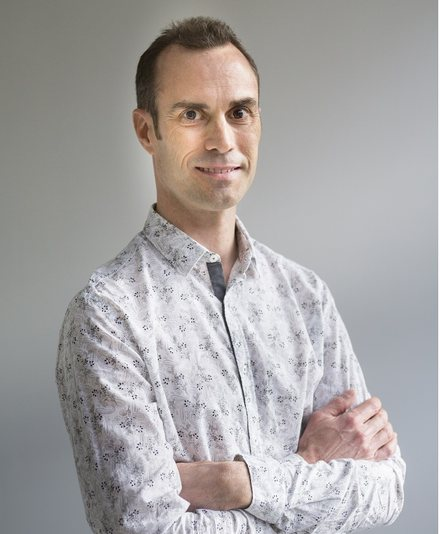
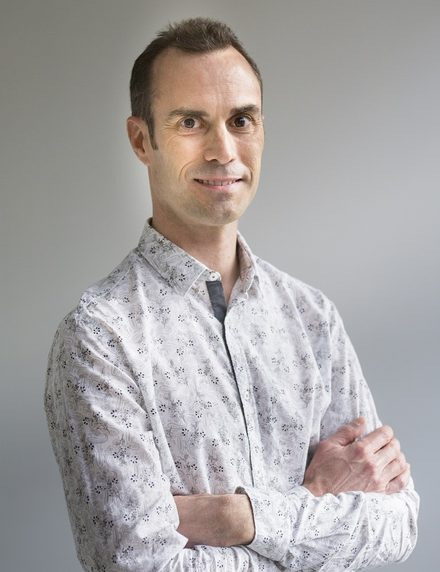
update images, modify date fields, and enhance accessibility styles

diff --git a/index.html b/index.html
@@ -63,7 +63,7 @@
         "inLanguage": "fr",
         "isPartOf": { "@id": "https://arnaudlegout.fr/#website" },
         "dateCreated": "2026-10-20T17:35:52+02:00",
-        "dateModified": "2026-10-20T18:44:53+02:00",
+        "dateModified": "2026-10-21T10:26:32+02:00",
         "mainEntity": { "@id": "https://arnaudlegout.fr/#arnaud-legout" }
       },
       {
@@ -140,8 +140,10 @@
             <p>Je suis directeur de recherche à Inria, à Sophia Antipolis, et habilité à diriger des recherches. Depuis plus de vingt ans, j'analyse des données à très grande échelle pour comprendre l'Internet, les réseaux sociaux et la protection de la vie privée.</p>
             <p>En parallèle, je forme des équipes à Python et à la data science depuis 2011, et j'accompagne des entreprises comme consultant indépendant.</p>
           </div>
-          <img src="assets/images/photo-arnaud-legout.jpg" alt="Portrait d'Arnaud Legout" class="hero__photo"
-            width="220" height="286">
+          <img src="assets/images/photo-arnaud-legout.jpg"
+            srcset="assets/images/photo-arnaud-legout-240.jpg 240w, assets/images/photo-arnaud-legout.jpg 440w"
+            sizes="(min-width: 768px) 220px, 120px"
+            alt="Portrait d'Arnaud Legout" class="hero__photo" width="220" height="286">
         </div>
       </div>
     </section>
@@ -241,7 +243,7 @@
           <li>l'analyse de la totalité de la chaîne Bitcoin, seize milliards de liens, pour retrouver les fonds définitivement perdus&nbsp;;</li>
           <li>des années de mesure des échanges BitTorrent, qui ont montré que l'anonymat promis par certains outils n'existait pas.</li>
         </ul>
-        <p>Plusieurs de ces travaux ont été repris par la presse internationale, dont le <a href="http://bits.blogs.nytimes.com/2011/11/29/skype-can-expose-your-location-researchers-say/" target="_blank" rel="noopener">New York Times</a>, le <a href="https://www.washingtonpost.com/news/the-intersect/wp/2016/06/16/six-in-10-of-you-will-share-this-link-without-reading-it-according-to-a-new-and-depressing-study/" target="_blank" rel="noopener">Washington Post</a>, <a href="http://fortune.com/2016/06/19/6-out-of-10-twitter-link-clicks/" target="_blank" rel="noopener">Fortune</a> et <a href="http://www.lemonde.fr/technologies/article/2010/05/08/l-anonymat-du-reseau-bittorrent-mis-en-cause_1348214_651865.html" target="_blank" rel="noopener">Le Monde</a>. Mes travaux récents portent aussi sur l'effet des suggestions de type IA sur la justesse des décisions, sur l'identification d'adresses Bitcoin illicites dans les forums clandestins et sur les discours de santé sur les réseaux sociaux.</p>
+        <p>Plusieurs de ces travaux ont été repris par la presse internationale, dont le <a href="https://archive.nytimes.com/bits.blogs.nytimes.com/2011/11/29/skype-can-expose-your-location-researchers-say/" target="_blank" rel="noopener">New York Times</a>, le <a href="https://www.washingtonpost.com/news/the-intersect/wp/2016/06/16/six-in-10-of-you-will-share-this-link-without-reading-it-according-to-a-new-and-depressing-study/" target="_blank" rel="noopener">Washington Post</a>, <a href="https://fortune.com/2016/06/19/6-out-of-10-twitter-link-clicks/" target="_blank" rel="noopener">Fortune</a> et <a href="https://www.lemonde.fr/technologies/article/2010/05/08/l-anonymat-du-reseau-bittorrent-mis-en-cause_1348214_651865.html" target="_blank" rel="noopener">Le Monde</a>. Mes travaux récents portent aussi sur l'effet des suggestions de type IA sur la justesse des décisions, sur l'identification d'adresses Bitcoin illicites dans les forums clandestins et sur les discours de santé sur les réseaux sociaux.</p>
         <p>J'ai encadré six thèses jusqu'à la soutenance, siégé aux comités éditoriaux de <em>Proceedings on Privacy Enhancing Technologies</em> (2021–2023) et d'<em>Elsevier Computer Networks</em> (2012–2016), et aux comités de programme de conférences comme ACM SIGCOMM, ACM IMC, ACM CoNEXT et PETS.</p>
         <p>La liste complète de mes publications se trouve sur ma <a href="https://www-sop.inria.fr/members/Arnaud.Legout/" target="_blank" rel="noopener">page de recherche Inria</a>, qui présente aussi mes projets et mes interventions, ainsi que sur <a href="https://scholar.google.com/citations?user=uGy5lroAAAAJ" target="_blank" rel="noopener">Google Scholar</a> et sur mon <a href="https://cv.hal.science/arnaudlegout" target="_blank" rel="noopener">CV HAL</a>.</p>
       </div>

diff --git a/style.css b/style.css
@@ -599,3 +599,22 @@ strong { font-weight: 600; }
 }
 .not-found h1 { margin-bottom: 1rem; }
 .not-found p  { color: var(--color-text-muted); margin-bottom: 2rem; }
+
+/* Boutons de la 404 centrés sous le titre et le texte, eux-mêmes centrés */
+.not-found .hero__cta { justify-content: center; }
+
+/* ============================================================
+   Focus clavier visible
+   ============================================================ */
+
+/* Les états :focus des liens et boutons ne changent que la couleur ou le
+   fond (#FAFAF9 → #F4F4F1), trop peu perceptible au clavier (WCAG 2.4.7).
+   En fin de feuille pour passer après leurs « outline: none ». */
+a:focus-visible,
+button:focus-visible,
+.nav__link:focus-visible,
+.nav__dropdown a:focus-visible,
+.btn:focus-visible {
+  outline: 2px solid var(--color-accent);
+  outline-offset: 2px;
+}
